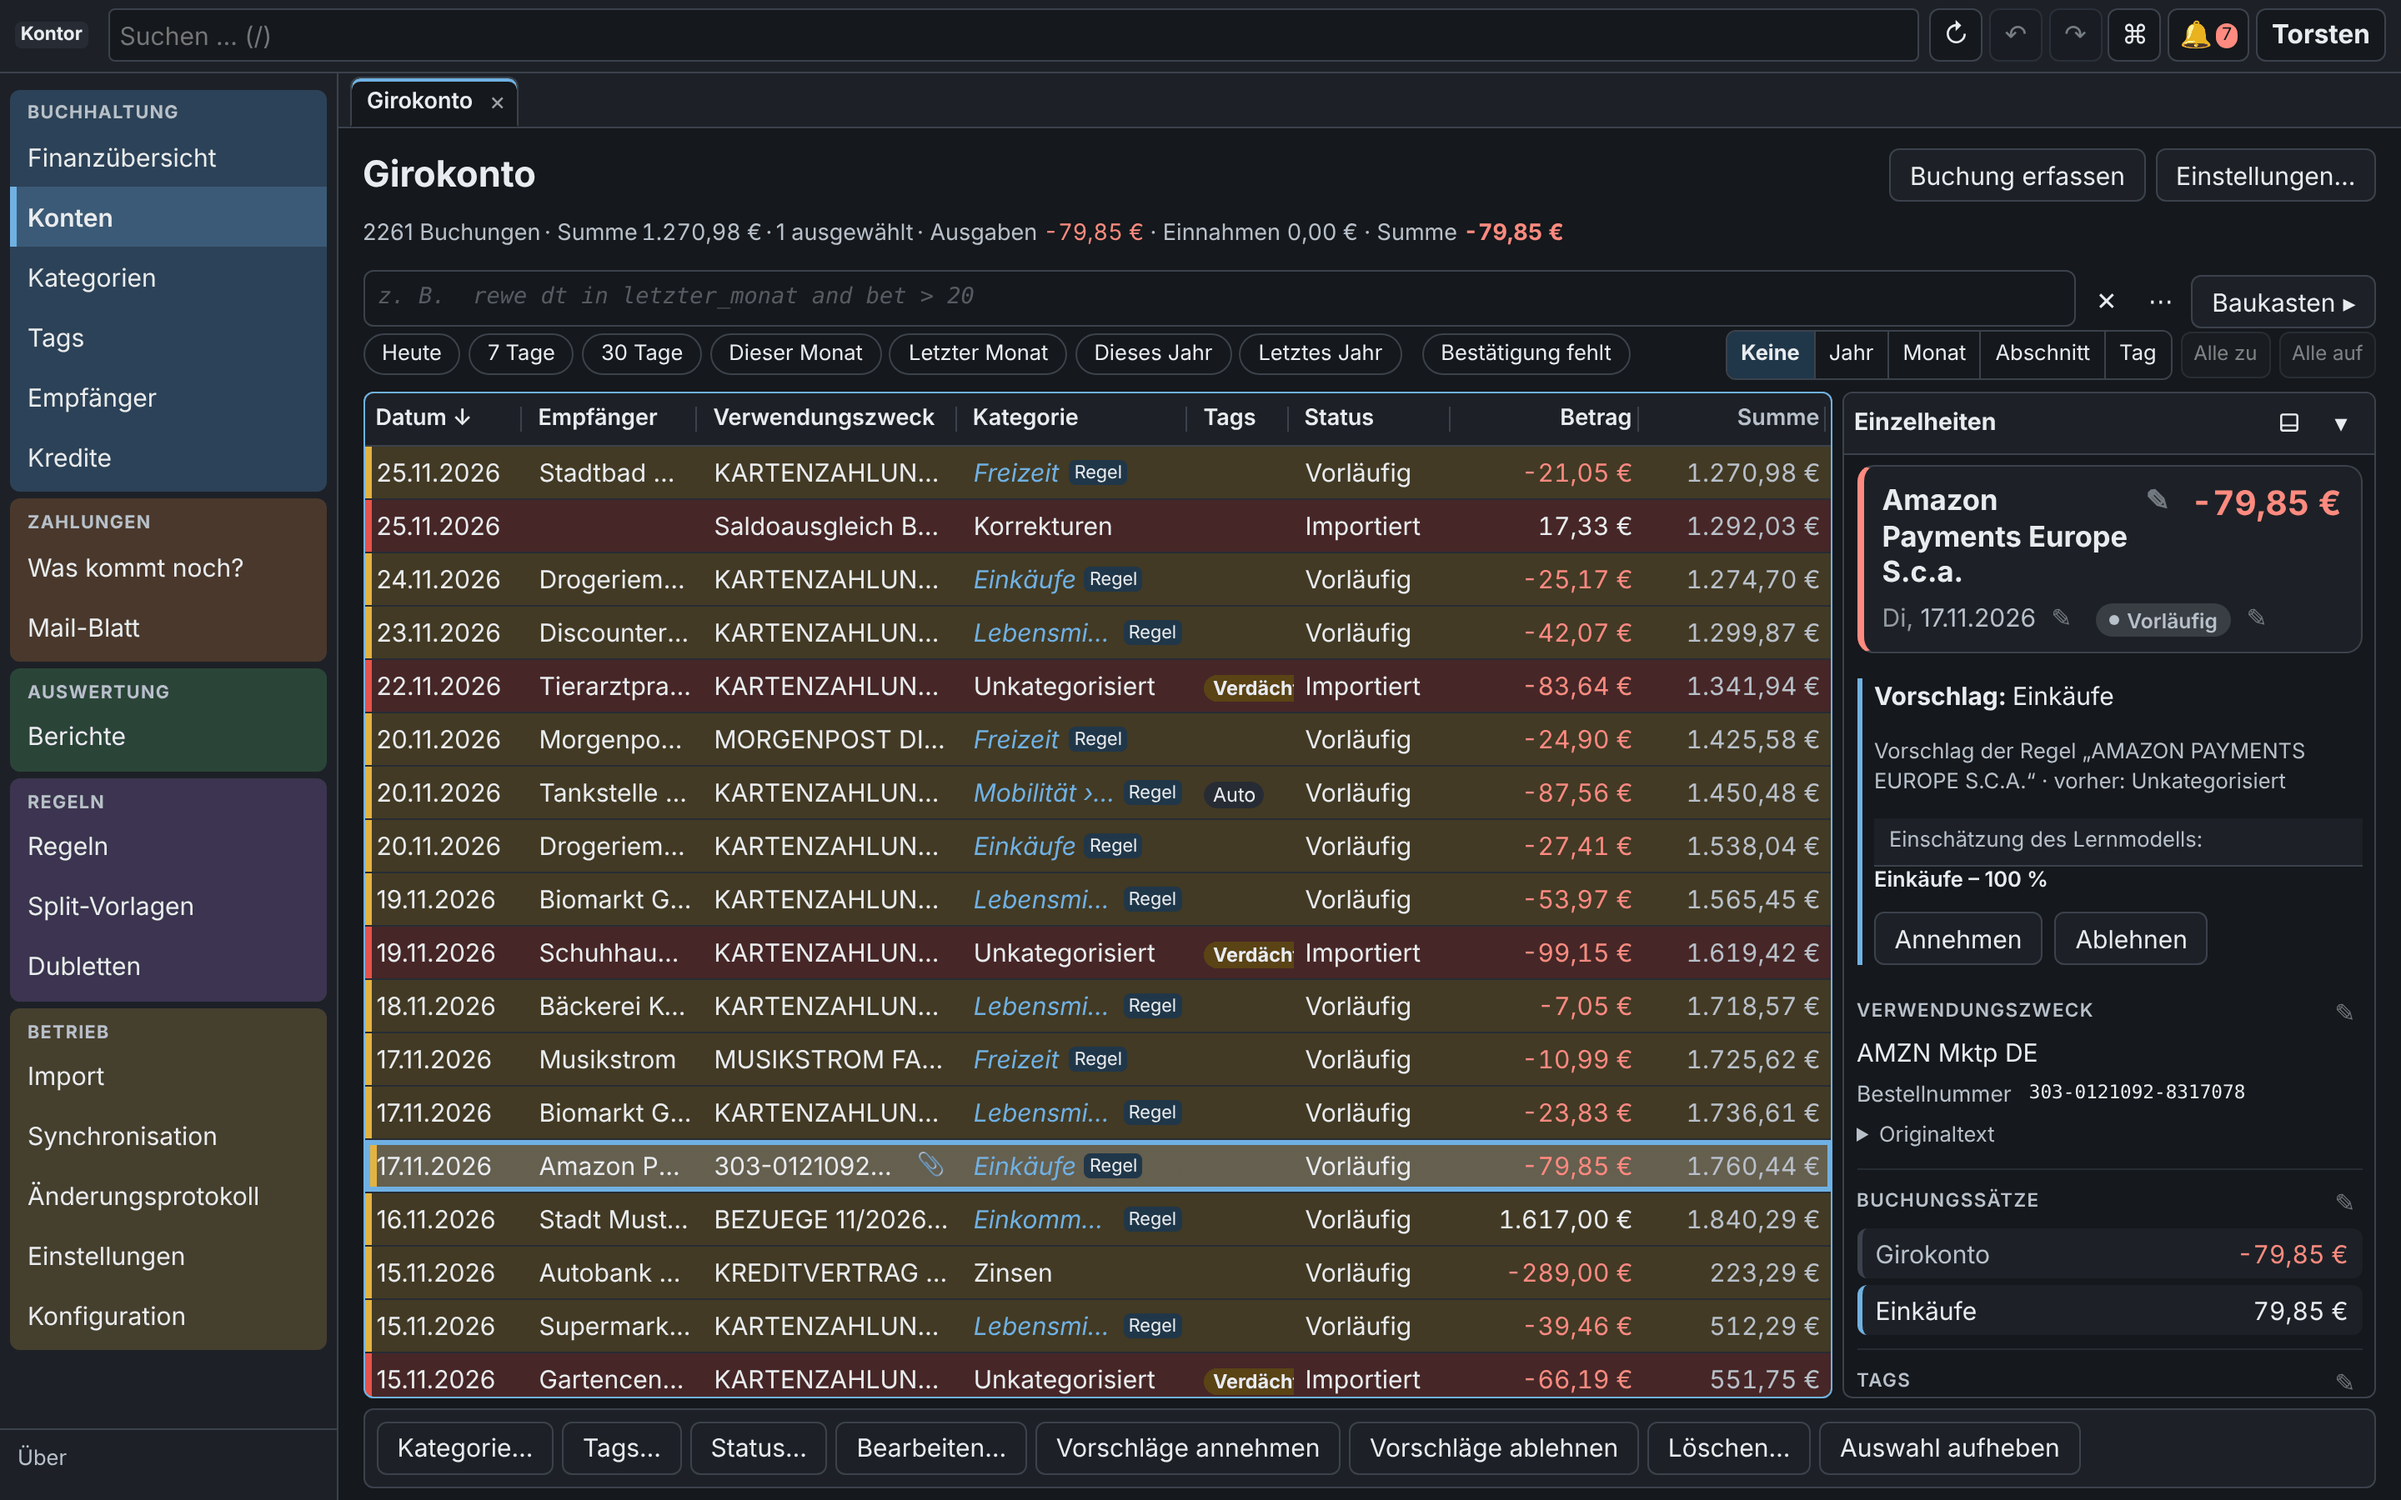
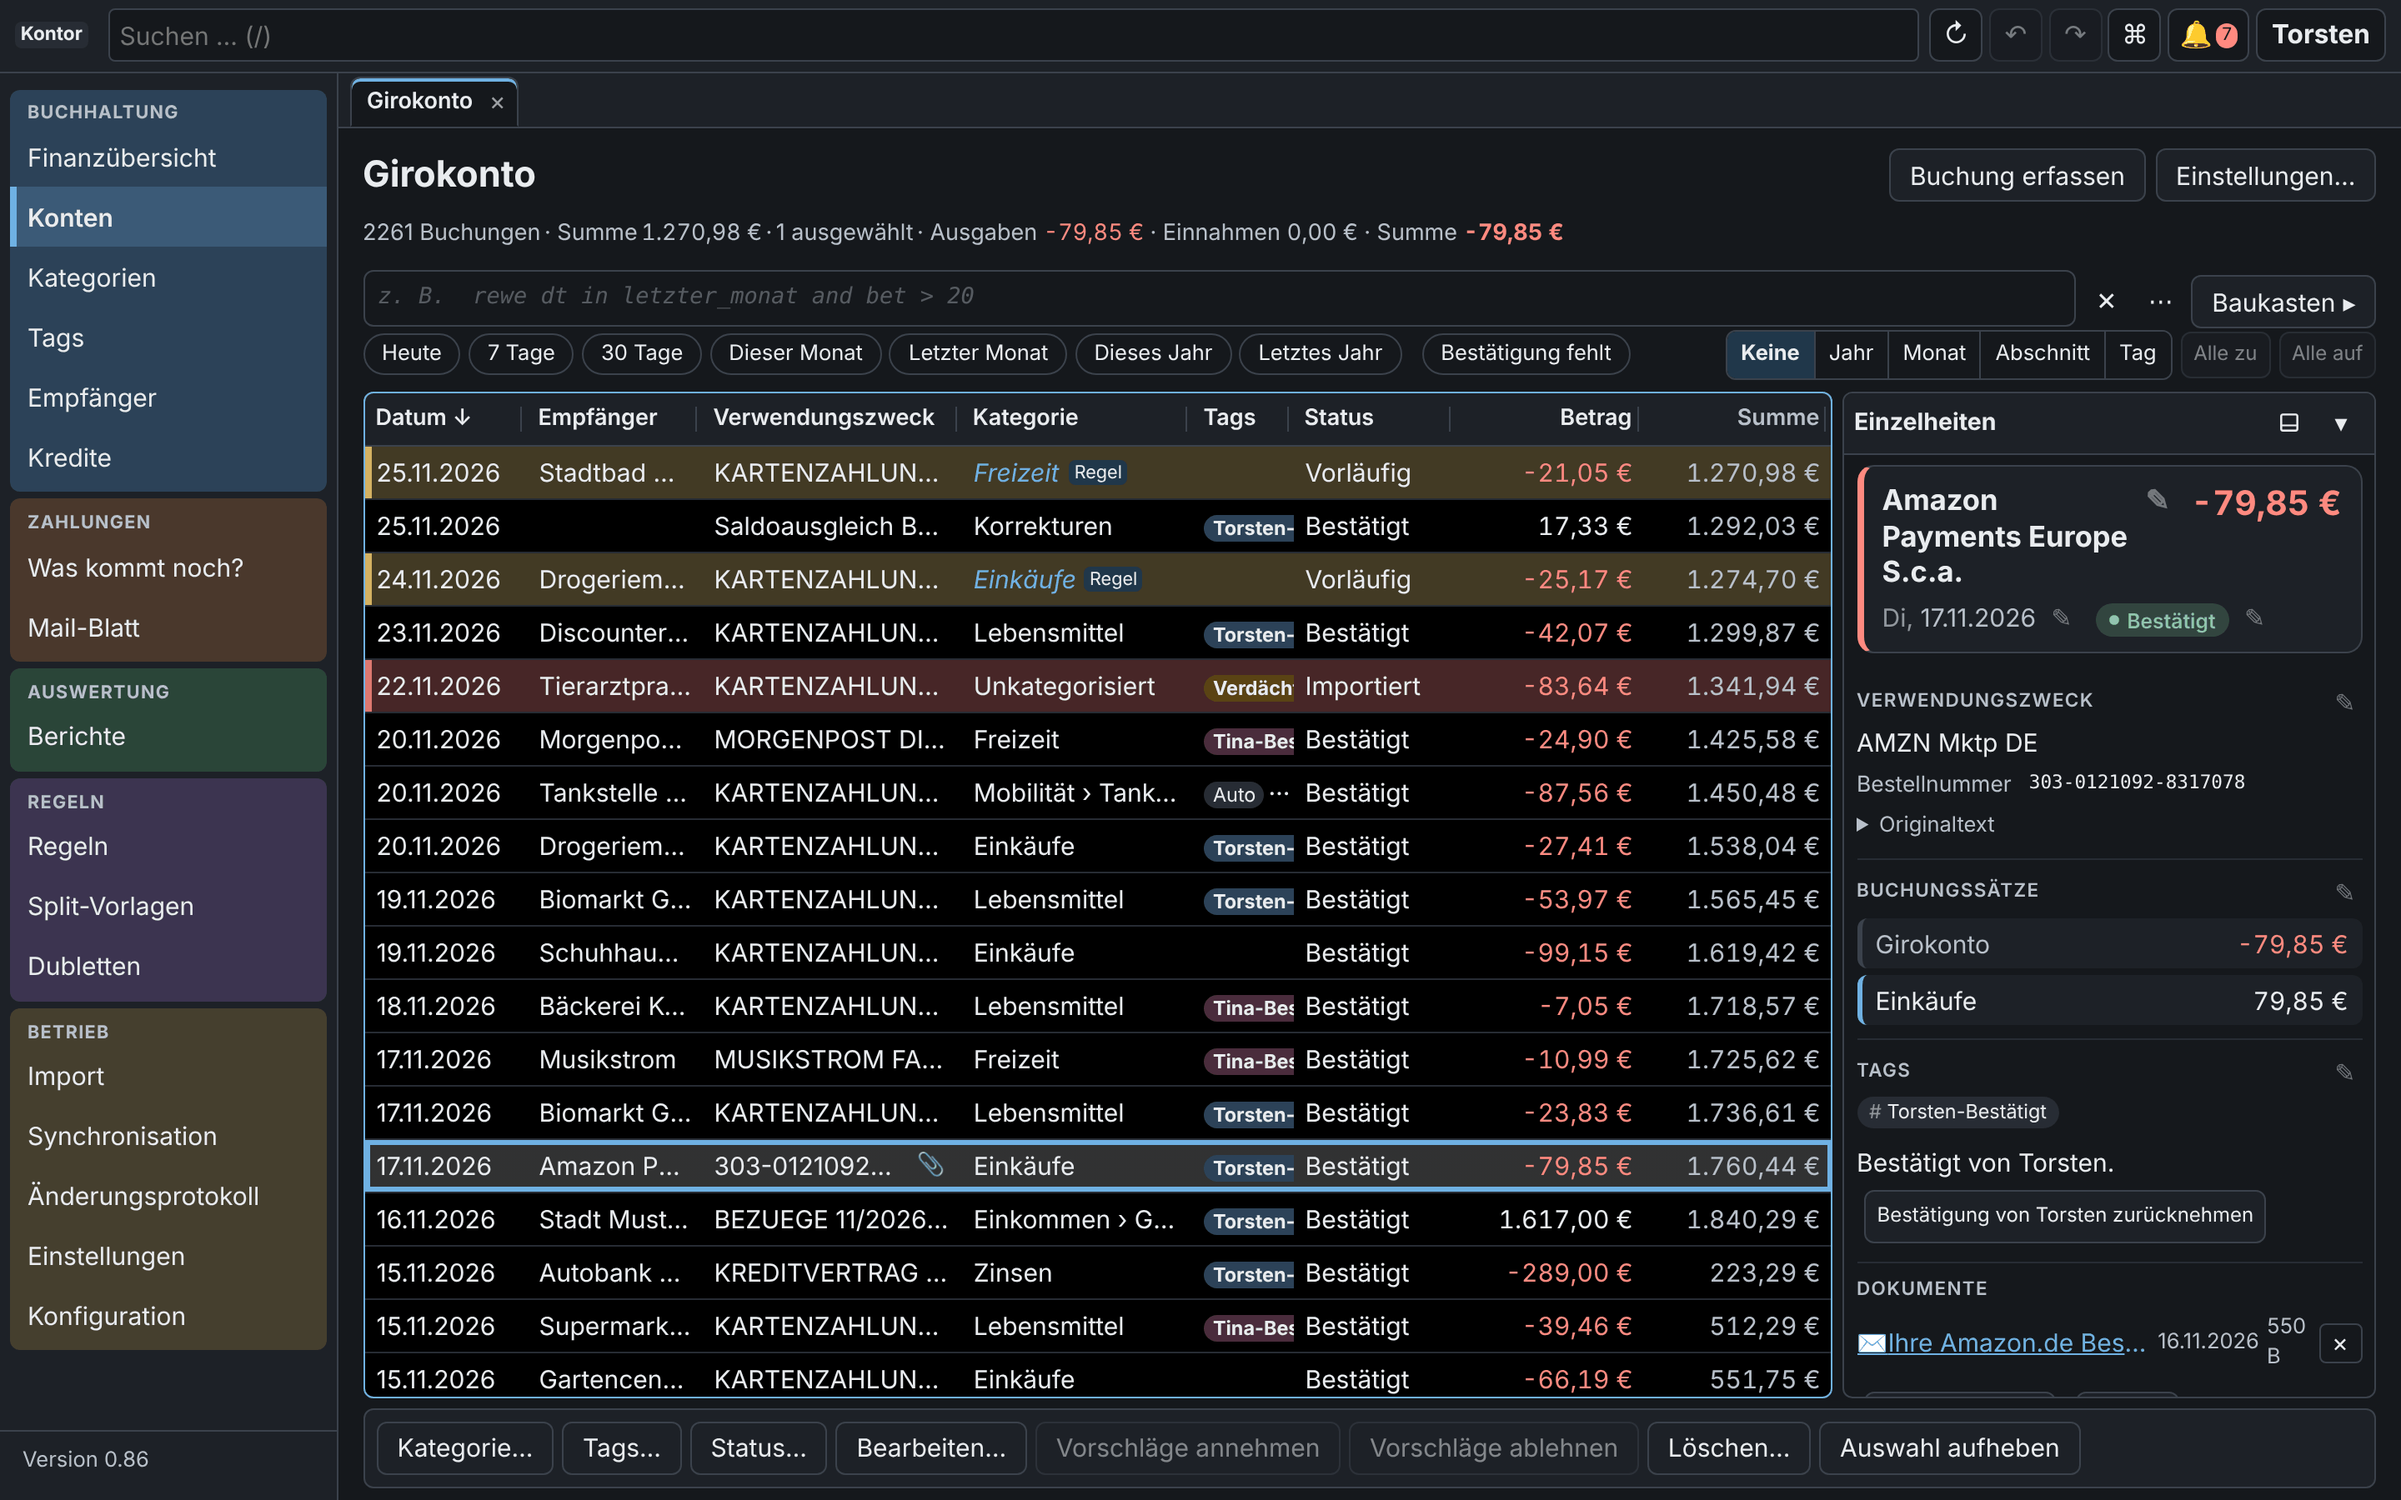
Screenshots: Girokonto vor den Bildern aufgeräumt (offene Buchungen als Ausnahme); README: Abschnitt zur Sicherheit der Zugänge
Claude-Session: https://claude.ai/code/session_01F56sG4V8MWVAQqfUAGv678

diff --git a/docs/screenshots/erzeugen.py b/docs/screenshots/erzeugen.py
@@ -164,16 +164,8 @@ def _oeffnen(p, basis: str, pfad: str) -> None:
 
 def _id_mit(basis: str, konto: int, bedingung) -> int:
     """Jüngste Buchung des Kontos, auf die ``bedingung`` zutrifft (über die REST-Schnittstelle)."""
-    seite, treffer = 1, None
-    while True:
-        with urllib.request.urlopen(f"{basis}/api/buchungen?konto_id={konto}&pro_seite=500&seite={seite}") as a:
-            d = json.load(a)
-        for b in d["eintraege"]:
-            if bedingung(b) and (treffer is None or (b["datum"], b["id"]) > (treffer["datum"], treffer["id"])):
-                treffer = b
-        if len(d["eintraege"]) < 500:
-            break
-        seite += 1
+    treffer = max((b for b in _alle_buchungen(basis, konto) if bedingung(b)),
+                  key=lambda b: (b["datum"], b["id"]), default=None)
     if treffer is None:
         raise RuntimeError("Keine passende Buchung in den Demodaten gefunden.")
     return treffer["id"]
@@ -209,6 +201,56 @@ def _rest(basis: str, methode: str, pfad: str, daten: object) -> dict:
                                      headers={"Content-Type": "application/json"})
     with urllib.request.urlopen(anfrage) as a:
         return json.load(a)
+
+
+def _alle_buchungen(basis: str, konto: int) -> list[dict]:
+    alle, seite = [], 1
+    while True:
+        with urllib.request.urlopen(f"{basis}/api/buchungen?konto_id={konto}&pro_seite=500&seite={seite}") as a:
+            d = json.load(a)
+        alle += d["eintraege"]
+        if len(d["eintraege"]) < 500:
+            return alle
+        seite += 1
+
+
+# Zuordnung der noch unkategorisierten Demo-Buchungen beim Aufräumen (Teil des Empfängernamens → Kategorie)
+NACHTRAG = {"Gartencenter": "Einkäufe", "Schuhhaus": "Einkäufe", "Eisdiele": "Restaurant", "Stadtwerke": "Energie",
+            "Tierarzt": "Versicherungen & Gesundheit"}
+OFFEN_LASSEN = 2      # so viele der neuesten Vorschläge bleiben offen (gelb), dazu eine unkategorisierte (rot)
+
+
+def aufraeumen(basis: str) -> None:
+    """Girokonto so herrichten, wie es nach der regelmäßigen Durchsicht aussieht.
+
+    Die Demodaten lassen die letzten Wochen absichtlich unbearbeitet (zum Vorführen von Abruf und Vorschlägen). Auf
+    den Bildern sollen offene Buchungen die Ausnahme sein: Bis auf die neuesten Vorschläge und eine unkategorisierte
+    Buchung werden Vorschläge angenommen, Unkategorisiertes zugeordnet und alles bestätigt – über REST, nur in der
+    temporären Demo-Datenbank."""
+    kategorien = {k["name"]: k["id"] for k in json.load(urllib.request.urlopen(basis + "/api/konten"))}
+    offen = sorted((b for b in _alle_buchungen(basis, 1) if b["status"] in ("vorlaeufig", "importiert")),
+                   key=lambda b: (b["datum"], b["id"]), reverse=True)
+    vorschlaege = [b for b in offen if b["vorschlag"]]
+    unkategorisiert = [b for b in offen if b["kategorie_id"] is None and b["empfaenger"]]
+    bleiben = {b["id"] for b in vorschlaege[:OFFEN_LASSEN]} | {b["id"] for b in unkategorisiert[:1]}
+    annehmen = [b["id"] for b in vorschlaege if b["id"] not in bleiben]
+    if annehmen:
+        _rest(basis, "POST", "/api/buchungen/mehrfach/vorschlag", {"buchung_ids": annehmen, "aktion": "annehmen"})
+    for b in unkategorisiert:
+        ziel = next((k for teil, k in NACHTRAG.items() if teil in b["empfaenger"]["name"]), None)
+        if b["id"] not in bleiben and ziel in kategorien:
+            _rest(basis, "PUT", f"/api/buchungen/{b['id']}/kategorie", {"kategorie_id": kategorien[ziel]})
+    rest = [b["id"] for b in _alle_buchungen(basis, 1)
+            if b["status"] in ("vorlaeufig", "importiert") and b["id"] not in bleiben]
+    if rest:
+        _rest(basis, "POST", "/api/buchungen/mehrfach/aendern", {"buchung_ids": rest, "status": "bestaetigt"})
+    # wer bestätigt hat, wie in den Demodaten: abwechselnd die beiden erfundenen Personen
+    from kontor.demodaten import PERSONENTAGS
+    tags = {t["name"]: t["id"] for t in json.load(urllib.request.urlopen(basis + "/api/tags"))}
+    for person in PERSONENTAGS:
+        ids = [i for i in set(annehmen) | set(rest) if PERSONENTAGS[i % 3 == 0] == person]
+        if ids and person in tags:
+            _rest(basis, "POST", "/api/buchungen/mehrfach/tags", {"buchung_ids": ids, "hinzufuegen": [tags[person]]})
 
 
 def lernmodell(p, basis, heute: dt.date):
@@ -327,6 +369,7 @@ def main(argv: list[str] | None = None) -> int:
     a.add_argument("--nur", nargs="*", default=[], help="nur diese Ansichten (Namen aus ANSICHTEN)")
     o = a.parse_args(argv)
     with tempfile.TemporaryDirectory(prefix="kontor-screenshots-") as tmp, server(pathlib.Path(tmp), o.heute) as basis:
+        aufraeumen(basis)
         fotografieren(basis, o.heute, set(o.nur))
     return 0
 

diff --git a/README.md b/README.md
@@ -46,11 +46,34 @@ Daten: [Schnellstart im Mock-Modus](#schnellstart-im-mock-modus).
   Sicherungspunkte an, zu denen du zurückkehren kannst.
 - **Für den ganzen Haushalt.** Ein gemeinsamer Login, und wer eine Buchung bestätigt, wird mit Namen vermerkt.
   Am Rechner mit Tastaturkürzeln und Befehlspalette, unterwegs als App auf dem Handy, hell oder dunkel.
-- **Deine Daten bleiben bei dir.** Kontor läuft auf deinem eigenen Server im Heimnetz oder hinter Tailscale.
-  Die Bank-PIN liegt nur im Arbeitsspeicher, Zugangsdaten sind verschlüsselt gespeichert.
+- **Deine Daten bleiben bei dir.** Kontor läuft auf deinem eigenen Server im Heimnetz oder hinter Tailscale,
+  greift nur lesend auf Bank und Postfächer zu und speichert Zugangsdaten nie im Klartext
+  ([mehr dazu](#so-schützt-kontor-deine-zugänge)).
 
 Umsteigen ist leicht: Kontor übernimmt deine Daten aus **KMyMoney** und **GnuCash**. Alles, was Kontor kann,
 steht ausführlich in [spec/meilensteine.md](spec/meilensteine.md).
+
+## So schützt Kontor deine Zugänge
+
+- **Bank und Postfächer nur lesend.** Kontor sendet an die Bank ausschließlich lesende FinTS-Aufträge (Konten,
+  Umsätze, Kontostand) – Überweisungen oder andere Aufträge kann es gar nicht auslösen. Postfächer öffnet es nur
+  lesend (`EXAMINE`, `BODY.PEEK`): Es verschiebt, löscht und markiert keine Mail, nicht einmal als gelesen.
+- **Die Bank-PIN liegt nie im Klartext auf der Platte.** Du hast die Wahl:
+  - *verschlüsselt über systemd-creds:* Die PIN wird mit `systemd-creds encrypt` an den Rechner (oder sein TPM)
+    gebunden abgelegt; systemd stellt sie nur dem laufenden Dienst bereit.
+  - *oder Eingabe in der Oberfläche:* Die PIN lebt dann nur im Arbeitsspeicher und ist nach einem Neustart weg.
+    Wer sie sich merken lässt, bekommt sie nur verschlüsselt und mit dem Login-Passwort geschützt gespeichert.
+- **Mail-Zugänge sind verschlüsselt.** App-Passwörter und OAuth-Tokens der Postfächer, das OAuth-Client-Secret und
+  das ntfy-Token liegen nur verschlüsselt (AES-256-GCM) in der Datenbank. Der Schlüssel kommt aus systemd-creds bzw.
+  einer eigenen Schlüsseldatei; auf Wunsch schützt zusätzlich das Login-Passwort, dann ist der Schlüssel nur nach
+  dem Anmelden im Arbeitsspeicher.
+- **Geheimnisse bleiben, wo sie hingehören.** PIN, TAN, Passwörter und Tokens erscheinen nie in Logs,
+  Fehlermeldungen, Antworten der Schnittstelle oder Sicherungsdateien.
+- **Zugang nur für deinen Haushalt.** Gemeinsamer Login (Passwort mit scrypt gespeichert, Sperre nach
+  Fehlversuchen), Zugriff nur aus dem Heimnetz bzw. dem eigenen Tailnet, auf Wunsch nur über HTTPS.
+
+Die Einrichtung steht unter [Installation, Schritt 4](#installation-als-systemd-dienst-im-proxmox-lxc-container)
+und [Bankzugang einrichten](#bankzugang-fints-einrichten).
 
 ## Schnellstart im Mock-Modus
 

diff --git a/ENTSCHEIDUNGEN.md b/ENTSCHEIDUNGEN.md
@@ -5034,3 +5034,11 @@ Anlass: Klick auf einen Punkt unter `/sicherung` brauchte auf dem Server 10–20
   AqBanking, Übergangshinweise für alte Installationen, Verweise auf Entscheidungsnummern. Richtiggestellt:
   Standardkategorie (D-219) und Statistische Analyse (D-221) entfallen, Panel Kategorien im Kontoblatt (D-265),
   Tastenbelegung (D-292), stündliche Sicherungspunkte statt täglicher Sicherung (D-302), Wege in den Einstellungen.
+- **Nachtrag (ruhigeres Titelbild):** Die Demodaten lassen die letzten Wochen unbearbeitet, dadurch waren fast alle
+  sichtbaren Zeilen gelb (vorläufig) oder rot (unkategorisiert). `erzeugen.py` räumt das Girokonto vor den Bildern
+  über REST auf, wie nach einer Durchsicht: Vorschläge annehmen, Unkategorisiertes zuordnen (`NACHTRAG`), bestätigen
+  und die Bestätigung wie in den Demodaten einer der beiden Personen zuschreiben. Offen bleiben die zwei neuesten
+  Vorschläge und eine unkategorisierte Buchung. Nur in der temporären Datenbank.
+- **README:** neuer Abschnitt „So schützt Kontor deine Zugänge“ (nur lesender Zugriff auf Bank und Postfächer,
+  PIN über systemd-creds oder nur im Arbeitsspeicher, Zugangsdaten nur verschlüsselt, keine Geheimnisse in Logs und
+  Sicherungen).
